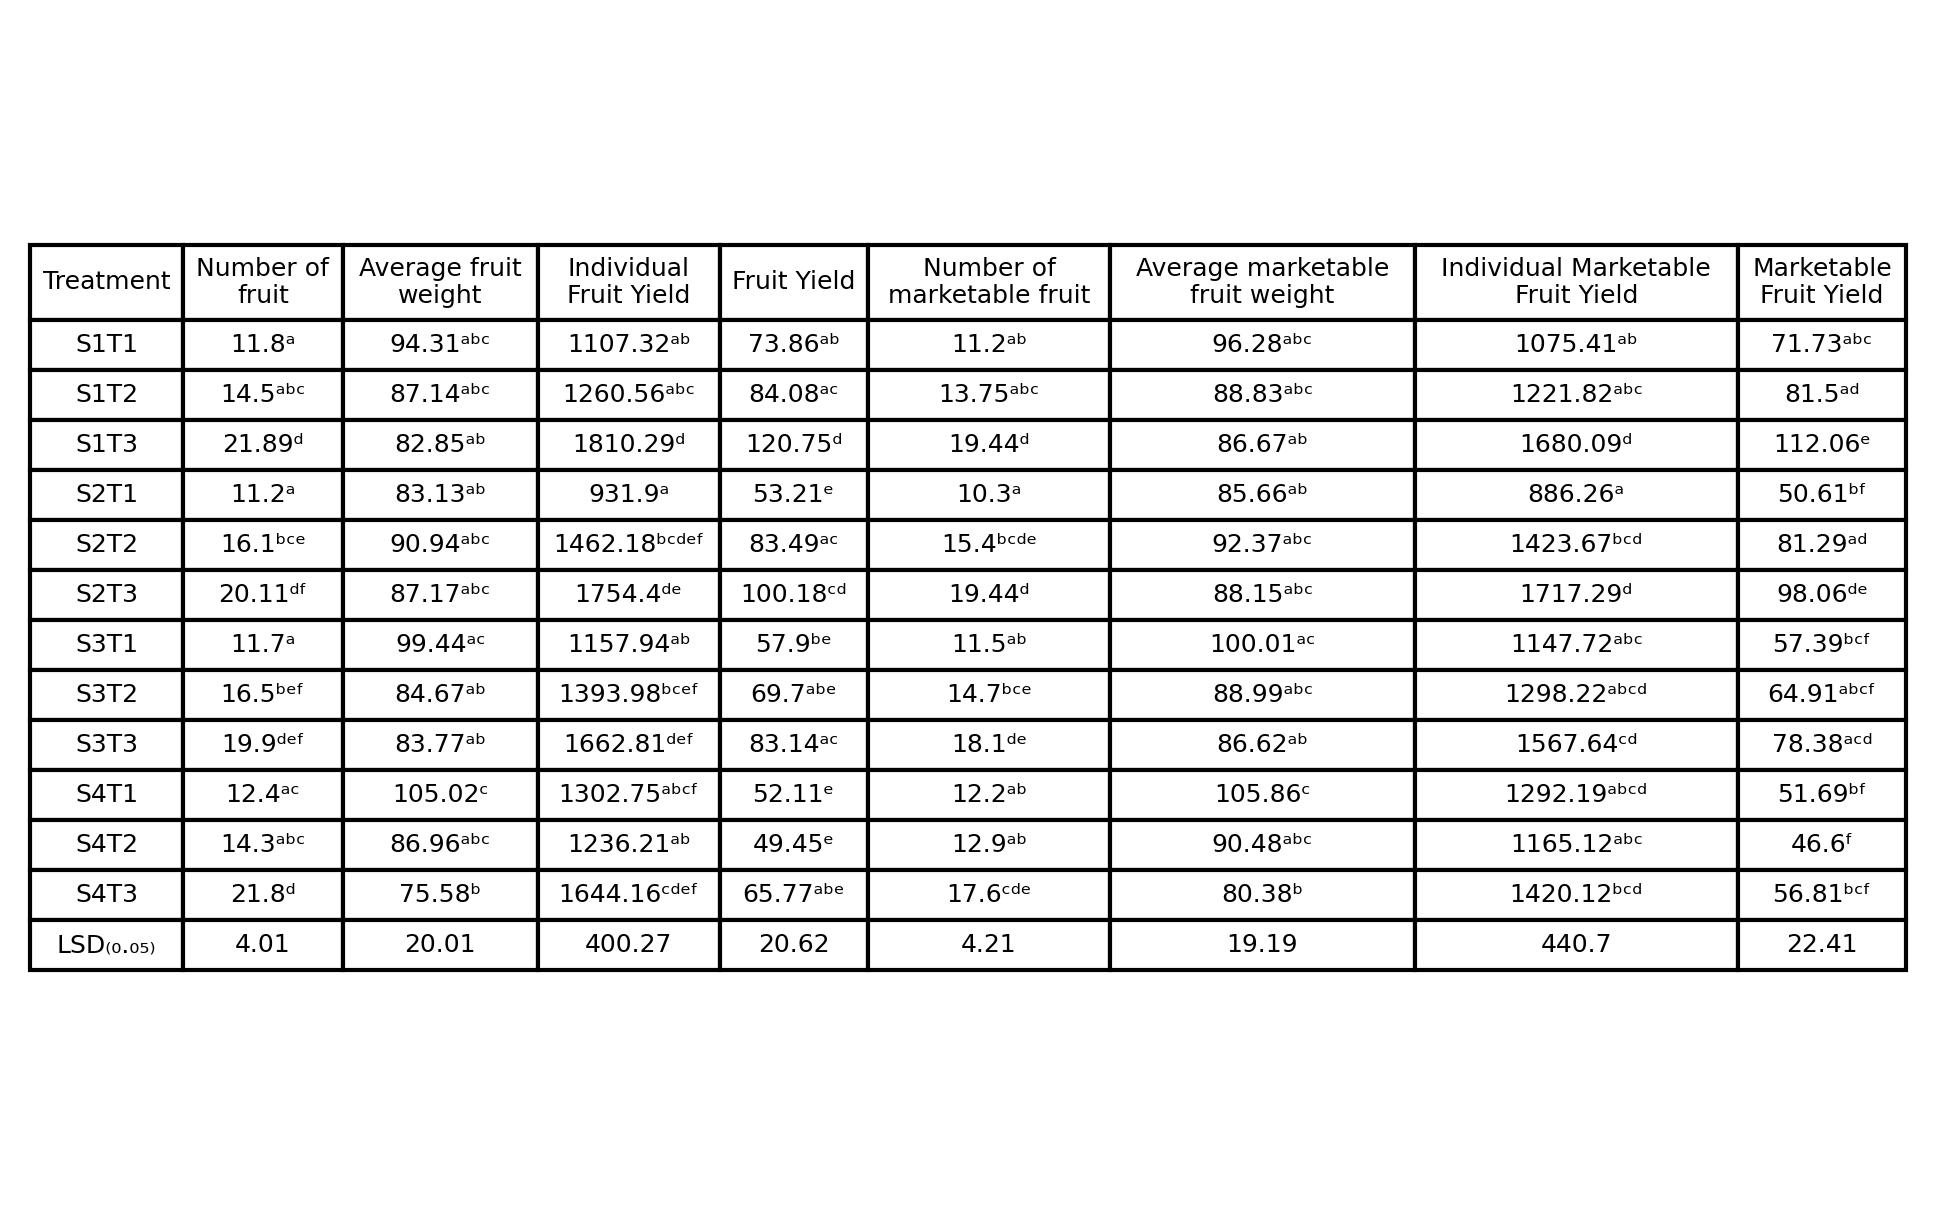
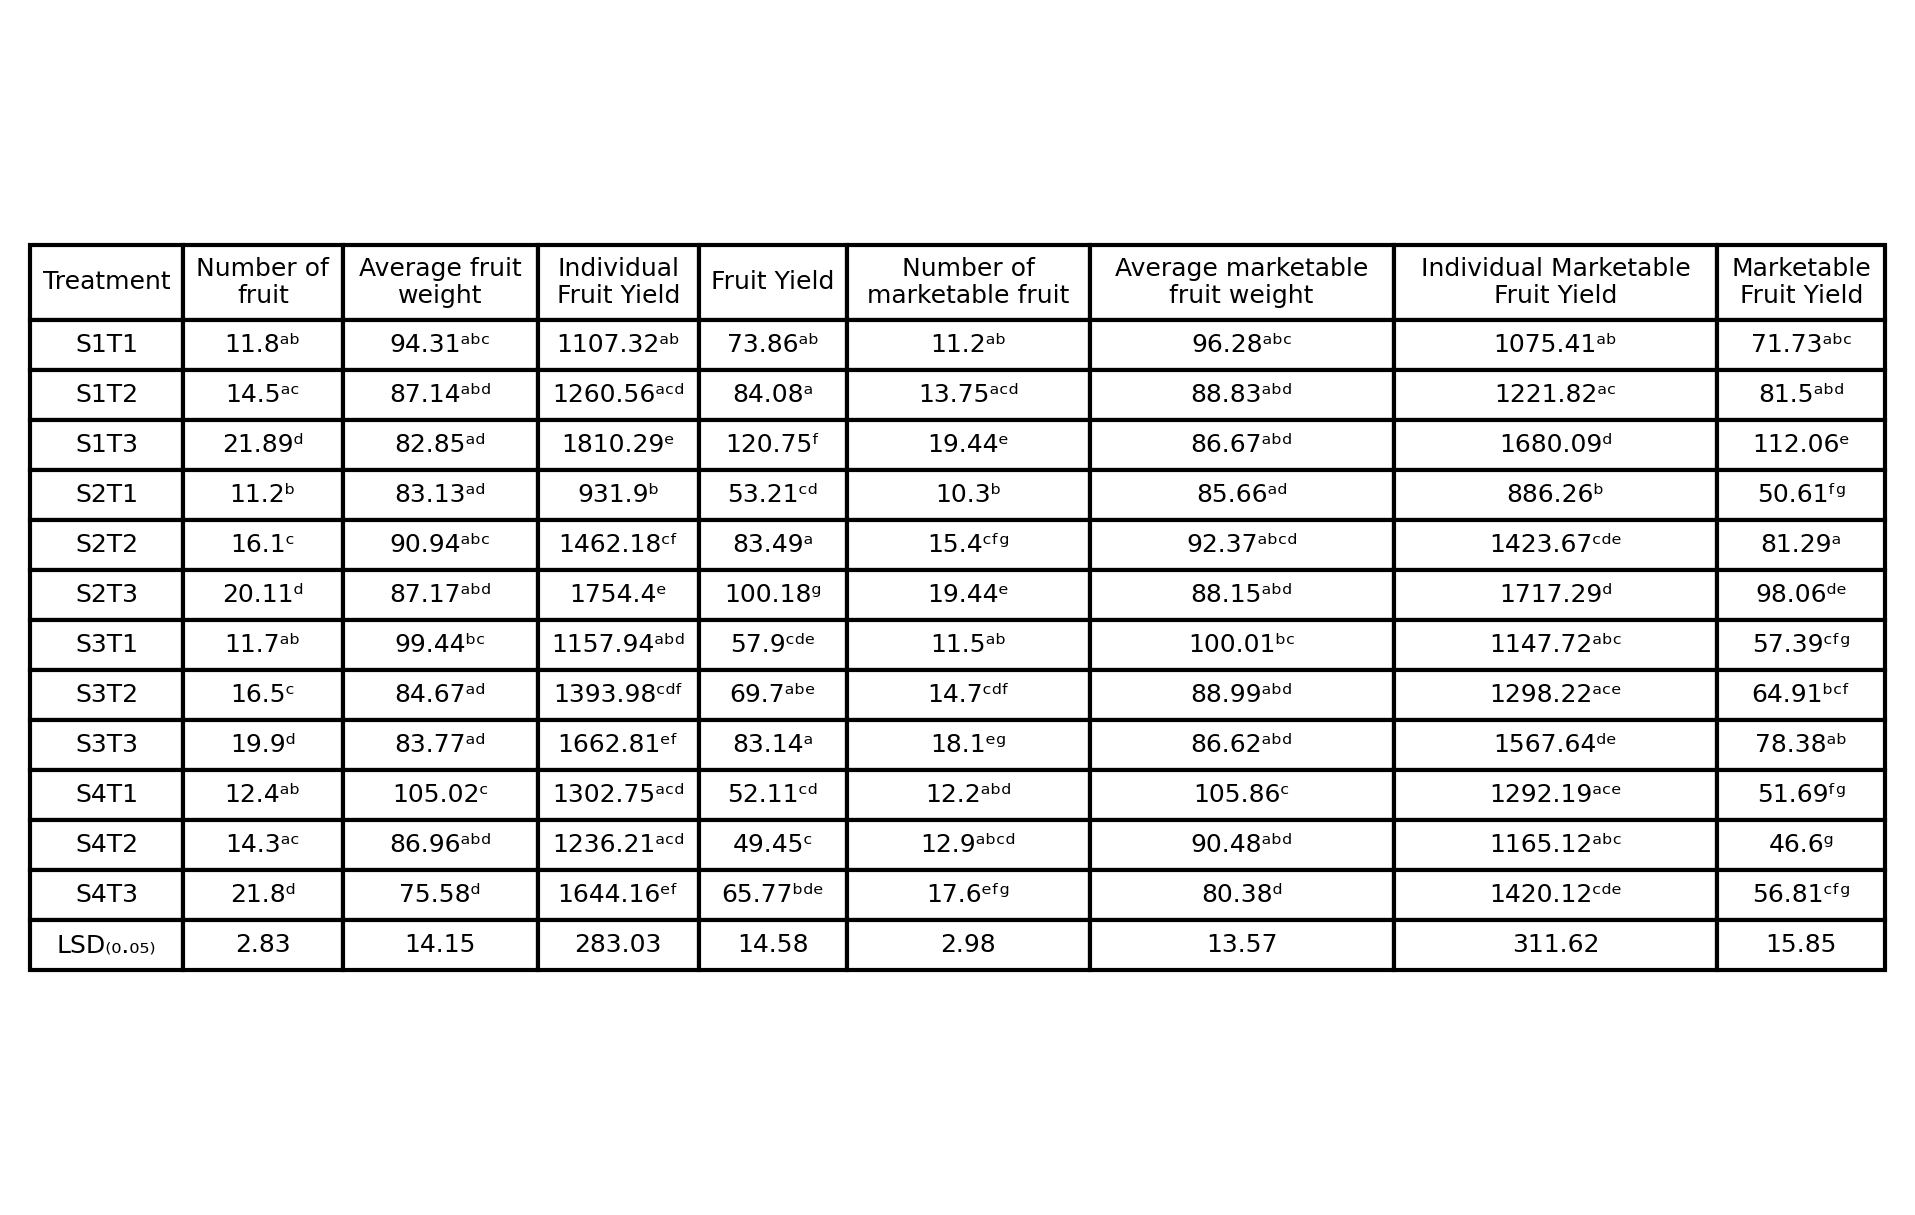
Correct Tukey's LSD formula. Generalize for unequal observations.

diff --git a/Python/test.py b/Python/test.py
@@ -1,11 +1,274 @@
-(
-    cnt_plant,
-    cnt_marketable_plant,
-    sum_plant,
-    sum_marketable_plant,
-    cnt_marketable_2w,
-    sum_marketable_2w,
-) = ([0] * 3 for _ in range(6))
-cnt_plant[0] = 7
-print(cnt_plant)
-print(cnt_marketable_plant)
+from statsmodels.stats.multicomp import pairwise_tukeyhsd
+import numpy as np
+
+# Given data
+data = [
+    [
+        0.75,
+        0.7,
+        0.65,
+        0.75,
+        0.8,
+        0.8,
+        0.75,
+        0.85,
+        0.85,
+        0.75,
+        0.8,
+        0.7,
+        0.6,
+        0.7,
+        0.7,
+        0.7,
+        0.7,
+        0.6,
+        0.8,
+        0.6,
+    ],
+    [
+        0.75,
+        0.8,
+        0.7,
+        0.7,
+        0.75,
+        0.8,
+        0.8,
+        0.7,
+        0.8,
+        0.75,
+        0.7,
+        0.8,
+        0.8,
+        0.75,
+        0.8,
+        0.7,
+        0.7,
+        0.8,
+        0.7,
+        0.8,
+    ],
+    [
+        0.8,
+        0.8,
+        0.8,
+        0.7,
+        0.7,
+        0.7,
+        0.65,
+        0.8,
+        0.5,
+        0.7,
+        0.9,
+        0.8,
+        0.7,
+        0.7,
+        0.5,
+        0.8,
+        0.8,
+        0.8,
+        0.8,
+        0.8,
+    ],
+    [
+        0.7,
+        0.7,
+        0.75,
+        0.75,
+        0.7,
+        0.7,
+        0.7,
+        0.8,
+        0.7,
+        0.75,
+        0.8,
+        0.9,
+        0.7,
+        0.75,
+        0.75,
+        0.8,
+        0.8,
+        0.7,
+        0.6,
+        0.5,
+    ],
+    [
+        0.7,
+        0.7,
+        0.71,
+        0.75,
+        0.9,
+        0.85,
+        0.7,
+        0.6,
+        0.9,
+        0.7,
+        0.8,
+        0.7,
+        0.7,
+        0.8,
+        0.7,
+        0.8,
+        0.8,
+        0.7,
+        0.8,
+        0.7,
+    ],
+    [
+        0.7,
+        0.7,
+        0.7,
+        0.7,
+        0.6,
+        0.7,
+        0.75,
+        0.7,
+        0.7,
+        0.7,
+        0.7,
+        0.75,
+        0.7,
+        0.5,
+        0.72,
+        0.5,
+        0.7,
+        0.76,
+        0.55,
+        0.7,
+    ],
+    [
+        0.7,
+        0.8,
+        0.7,
+        1,
+        0.7,
+        0.65,
+        0.7,
+        0.65,
+        0.7,
+        0.5,
+        0.9,
+        0.8,
+        0.8,
+        0.6,
+        0.5,
+        0.8,
+        0.8,
+        0.8,
+        0.6,
+        0.7,
+    ],
+    [
+        0.9,
+        0.8,
+        0.65,
+        0.8,
+        0.65,
+        0.8,
+        0.7,
+        0.7,
+        0.75,
+        0.7,
+        0.6,
+        0.8,
+        0.65,
+        0.8,
+        0.75,
+        0.8,
+        0.7,
+        0.75,
+        0.7,
+        0.7,
+    ],
+    [
+        1,
+        0.75,
+        0.7,
+        0.75,
+        0.7,
+        0.7,
+        0.75,
+        0.7,
+        0.7,
+        0.8,
+        0.5,
+        0.6,
+        0.7,
+        0.7,
+        0.6,
+        0.6,
+        0.8,
+        0.6,
+        0.8,
+        0.8,
+    ],
+    [
+        0.7,
+        0.7,
+        0.7,
+        0.7,
+        0.7,
+        0.8,
+        0.75,
+        0.75,
+        0.7,
+        0.7,
+        0.7,
+        0.7,
+        0.8,
+        0.8,
+        0.7,
+        0.75,
+        0.75,
+        0.75,
+        0.6,
+        0.7,
+    ],
+    [
+        0.7,
+        0.7,
+        0.7,
+        0.5,
+        0.75,
+        0.6,
+        0.7,
+        0.7,
+        0.8,
+        0.4,
+        0.65,
+        0.75,
+        0.65,
+        0.7,
+        0.7,
+        0.7,
+        0.65,
+        0.5,
+        0.6,
+        0.6,
+    ],
+    [
+        0.6,
+        0.7,
+        0.7,
+        0.4,
+        0.5,
+        0.6,
+        0.75,
+        0.75,
+        0.6,
+        0.6,
+        0.6,
+        0.7,
+        0.7,
+        0.7,
+        0.6,
+        0.65,
+        0.65,
+        0.7,
+        0.6,
+        0.5,
+    ],
+]
+
+import ANOVA
+
+print(ANOVA.perform_anova(data))

diff --git a/Python/ANOVA.py b/Python/ANOVA.py
@@ -52,9 +52,9 @@ def perform_anova_summary(
         # Extract Turkey's HSD values
         q_crit = studentized_range.ppf(1 - alpha, n_groups, dfw)
 
-        lsd = q_crit * np.sqrt(2 * msw / n_per_group)
+        lsd = q_crit * np.sqrt(msw / n_per_group)
 
-        charGroup = TukeyHSD.getLabels(groups_mean, lsd)
+        charGroup = TukeyHSD.getLabels(groups_mean, groups_size, q_crit, msw)
         lsd = round(lsd, 2)
     else:
         lsd = "ns"
@@ -79,11 +79,13 @@ def perform_anova(data, alpha=0.05):
         q_crit = studentized_range.ppf(
             1 - alpha, n_groups, n_groups * n_per_group - n_groups
         )
+        # print(q_crit, mse, n_groups)
 
         # Turkey's HSD characteristic group
         groups_mean = [np.mean(group) for group in data]
-        lsd = q_crit * np.sqrt(2 * mse / n_per_group)
-        charGroup = TukeyHSD.getLabels(groups_mean, lsd)
+        groups_size = [len(group) for group in data]
+        lsd = q_crit * np.sqrt(mse / n_per_group)
+        charGroup = TukeyHSD.getLabels(groups_mean, groups_size, q_crit, mse)
 
         lsd = round(lsd, 2)
     else:

diff --git a/Python/TukeyHSD.py b/Python/TukeyHSD.py
@@ -16,23 +16,26 @@ def find_maximal_cliques(edges):
     return sorted_cliques
 
 
-def getLabels(groups_mean, lsd):
+def getLabels(groups_mean: list, groups_size: list, q_crit: float, msw: float):
     # Perform Tukey's HSD test
 
     significant_pairs = []
     is_all = True
     for i in range(len(groups_mean)):
         for j in range(i + 1, len(groups_mean)):
+            lsd = q_crit * np.sqrt(msw / 2 * (1 / groups_size[i] + 1 / groups_size[j]))
+            # print(lsd)
             if np.abs(groups_mean[i] - groups_mean[j]) < lsd:
                 significant_pairs.append((i, j))
             else:
                 is_all = False
 
-    # Find maximal cliques
-    maximal_cliques = find_maximal_cliques(significant_pairs)
     charGroup = [""] * len(groups_mean)
     if is_all:
         return charGroup
+
+    # Find maximal cliques
+    maximal_cliques = find_maximal_cliques(significant_pairs)
     current_letter = "a"
     # Set the character group
     for clique in maximal_cliques:

diff --git a/Python/test2.py b/Python/test2.py
@@ -1,0 +1,15 @@
+from statsmodels.stats.multicomp import pairwise_tukeyhsd
+import numpy as np
+
+# Given data
+data = [
+    [7, 7, 15, 11, 9, 10],
+    [12, 17, 12, 18, 18, 16],
+    [14, 18, 18, 19, 19, 17],
+    [19, 25, 22, 19, 23, 24],
+    [7, 10, 11, 15, 11, 14],
+]
+
+import ANOVA
+
+print(ANOVA.perform_anova(data))

diff --git a/Python/TableAndChart.py b/Python/TableAndChart.py
@@ -68,7 +68,7 @@ def FruitMorphology():
     open(Table7Dir)
 
 
-# Weather()
-# PlantStructure()
-# YieldComponent()
+Weather()
+PlantStructure()
+YieldComponent()
 FruitMorphology()
